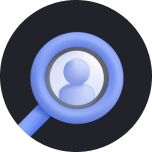
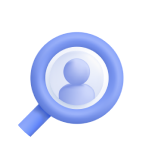
fixed main landing

diff --git a/components/for_pages/recruiting/RecruitingHirer/Reasons/index.tsx b/components/for_pages/recruiting/RecruitingHirer/Reasons/index.tsx
@@ -3,8 +3,8 @@ import styles from './index.module.scss'
 import Image from 'next/image'
 import bucket from 'images/recruiting/bucket.png'
 import bucketLight from 'images/recruiting/bucketLight.png'
-import walletWhite from 'images/recruiting/walletWhite.png'
 import hirer1reason from 'images/recruiting/hirer1reason.png'
+import employee1reason from 'images/recruiting/employee1reason.png'
 import hirer2reason from 'images/recruiting/hirer2reason.png'
 import hirer3reason from 'images/recruiting/hirer3reason.png'
 import { useRef } from 'react'
@@ -77,7 +77,7 @@ export default function Reasons({profileType}: Props) {
     <div className={styles.right}>
       <div className={classNames(styles.item, isLightTheme&&styles.item_light)}>
         <div className={isLightTheme?styles.lightImage:styles.image}>
-          <Image src={profileType === ProfileType.Hirer?hirer1reason: walletWhite} alt={'wallet'} width={76} height={76}/>
+          <Image src={profileType === ProfileType.Hirer?hirer1reason: employee1reason} alt={'wallet'} width={76} height={76}/>
         </div>
         <P styleType={['huge', 'w600' ]} useThemeColor className={styles.title}>
           {t(texts.subtitle1)}
@@ -88,7 +88,7 @@ export default function Reasons({profileType}: Props) {
       </div>
       <div className={classNames(styles.item, isLightTheme&&styles.item_light)}>
         <div className={isLightTheme?styles.lightImage:styles.image}>
-          <Image src={profileType === ProfileType.Hirer?hirer2reason:walletWhite} alt={'wallet'}  width={76} height={76}/>
+          <Image src={hirer2reason} alt={'wallet'}  width={76} height={76}/>
         </div>
         <P styleType={['huge', 'w600' ]} useThemeColor className={styles.title}>
           {t(texts.subtitle2)}
@@ -99,7 +99,7 @@ export default function Reasons({profileType}: Props) {
       </div>
       <div className={classNames(styles.item, isLightTheme&&styles.item_light)}>
         <div className={isLightTheme?styles.lightImage:styles.image}>
-          <Image src={profileType === ProfileType.Hirer?hirer3reason: walletWhite} alt={'wallet'} width={76} height={76}/>
+          <Image src={hirer3reason} alt={'wallet'} width={76} height={76}/>
         </div>
         <P styleType={['huge', 'w600' ]} useThemeColor className={styles.title}>
           {t(texts.subtitle3)}

diff --git a/components/ui/Notifications/index.tsx b/components/ui/Notifications/index.tsx
@@ -46,7 +46,7 @@ export default function Notifications(props: Props) {
     switch (type) {
       case ItemsNotificationType.ChatMessage:
         return {
-          name: 'У вас есть новые сообщения', 
+          name: 'Новые сообщения', 
           icon: <UnreadMessageSvg/>, 
           colors: ['#AC6CDB', '#586DE4'], 
           countText: `Вам отправили ${count} ${Formatter.pluralize(count, t('message1'), t('message2'), t('message3'))}`

diff --git a/context/vacancy_state.tsx b/context/vacancy_state.tsx
@@ -124,7 +124,7 @@ export function VacancyWrapper(props: Props) {
     VacancyRepository.addToBlackList(id||currentVacancy.id)
     .then(_=> {
       router.back()
-      appContext.showSnackbar('Вакансия добавлена в черный список', SnackbarType.success)
+      appContext.showSnackbar('Вакансия добавлена в скрытые вакансии', SnackbarType.success)
     })
   }
 
